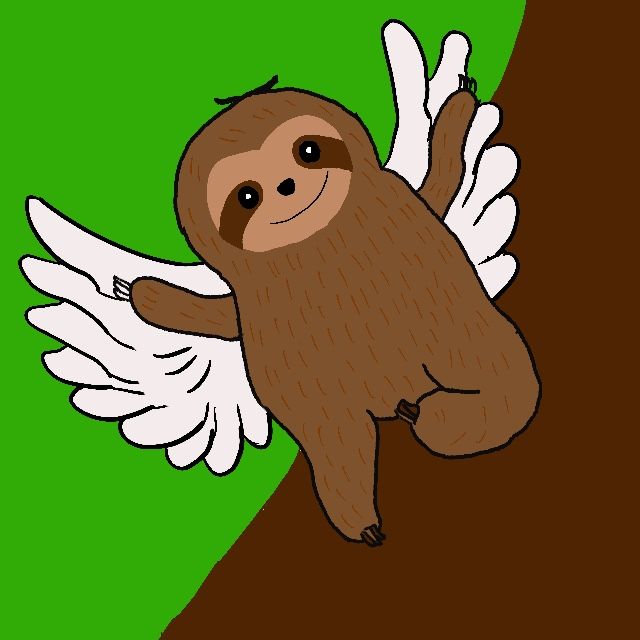
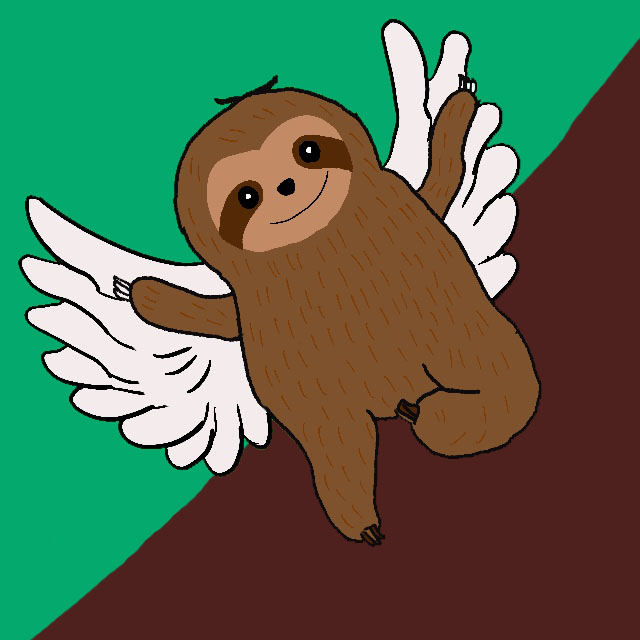
change color theme

diff --git a/wwwroot/css/site.css b/wwwroot/css/site.css
@@ -45,6 +45,7 @@ button {
 
 header {
   position: sticky;
+  z-index: 3;
   top: 0;
 }
 
@@ -55,17 +56,17 @@ main {
 }
 
 :root {
-  --blue: #0275d8;
+  --blue: #236EEF;
   --blue80: rgba(2, 117, 217, 0.5);
   --blueshadow: rgba(0, 47, 80, 0.2);
   --darkblue: #002f50;
-  --red: #dd3631;
+  --red: #D12334;
   --darkred: #5c1714;
   --redshadow: rgba(102, 26, 26, 0.2);
   --whitegray: #efefef;
   --shadow: rgba(0, 0, 0, 0.25);
-  --blackgray: #333333;
-  --green: #28a745;
+  --blackgray:#282a35;
+  --green: #04AA6D;
   --darkgreen: #10471d;
   --greenshadow: rgba(40, 167, 69, 0.2);
   --white80: rgba(255, 255, 255, 0.5);

diff --git a/wwwroot/css/user_profile.css b/wwwroot/css/user_profile.css
@@ -40,11 +40,12 @@
 .container {
     display: flex;
     flex-direction: column;
-    justify-content: center;
+    justify-content: flex-start;
     align-items: center;
-    margin: 0 7.5%;
+    margin: 0 7.5% 60px 7.5%;
+    padding: 20px 0;
     background-color: #ffffff;
-    height: calc(100vh - 230px);
+    min-height: calc(100vh - 230px);
 }
   
 .container * {
@@ -110,4 +111,8 @@ input:focus,button:focus {
 
 #unblacklist:active {
     background-color: var(--darkblue);
+}
+
+.title {
+    font-weight: bold;
 }

diff --git a/wwwroot/css/booking.css b/wwwroot/css/booking.css
@@ -31,24 +31,24 @@ th {
 }
 
 td {
-  background-color: #5cb85c;
+  background-color: #49B84E;
 }
 
 .not-enable {
-  background-color: var(--whitegray);
+  background-color: #E8EBF4;
 }
 
 .late {
-  background-color: var(--gray);
+  background-color: #6D7185;
 }
 
 .booked {
-  background-color: #d8ce41;
+  background-color: #D2D03A;
 }
 
 .full,
 .lab-close {
-  background-color: #b85c5c;
+  background-color: #BA4157;
 }
 
 .title {

diff --git a/wwwroot/css/edit_lab.css b/wwwroot/css/edit_lab.css
@@ -27,6 +27,7 @@
   border: 2px solid var(--blackgray);
   border-radius: 10px;
   margin: 20px 50px;
+  object-fit: cover;
 }
 
 .container .information {
@@ -65,6 +66,10 @@
 
 .container .information .control-amount button:active {
   background-color: var(--gray);
+}
+
+.container .information .control-amount button:hover {
+  cursor: pointer;
 }
 
 .container .information .control-amount input {

diff --git a/wwwroot/css/view_item.css b/wwwroot/css/view_item.css
@@ -48,11 +48,11 @@
 }
   
 .book-table td {
-    background-color: #5cb85c;
+    background-color: #49B84E;
 }
   
 .book-table .not-enable {
-    background-color: var(--whitegray);
+    background-color: #E8EBF4;
 }
   
 .book-table .late {
@@ -61,7 +61,7 @@
   
 .book-table .full,
 .book-table .lab-close {
-    background-color: #b85c5c;
+    background-color: #BA4157;
 }
   
 .title {

diff --git a/wwwroot/css/navigation.css b/wwwroot/css/navigation.css
@@ -5,7 +5,6 @@
   justify-content: space-between;
   padding: 0 7.5%;
   line-height: 60px;
-  z-index: 99;
 }
 
 .brand {
@@ -39,7 +38,7 @@
 }
 
 .menu :not(.logout):hover {
-  background-color: #555555;
+  background-color: #070919;
 }
 
 .menu a:first-child {
@@ -57,6 +56,7 @@
   line-height: 30px;
   margin: 15px;
   user-select: none;
+  border-radius: 5px;
 }
 
 .logout:active {

diff --git a/wwwroot/css/swapbar.css b/wwwroot/css/swapbar.css
@@ -3,7 +3,7 @@
   display: flex;
   border-radius: 5px;
   font-size: 18px;
-  top: 2%;
+  top: 15px;
   right: 7.5%;
 }
 
@@ -40,5 +40,5 @@
 
 .swap-page a.non-active:hover {
   background-color: #33333380;
-  color: var(--green);
+  color: #ffffff;
 }

diff --git a/wwwroot/css/edit_profile.css b/wwwroot/css/edit_profile.css
@@ -119,3 +119,7 @@ input:focus,
 button:focus {
   outline: none;
 }
+
+.information label {
+  font-weight: bold;
+}

diff --git a/wwwroot/css/profile.css b/wwwroot/css/profile.css
@@ -67,3 +67,7 @@ input:focus {
 .normal {
   color: var(--blue);
 }
+
+.title {
+  font-weight: bold;
+}
